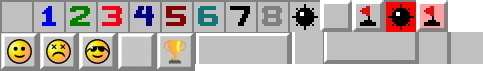
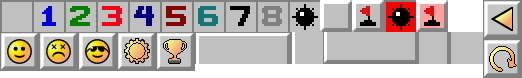
0201.1

diff --git a/main.cpp b/main.cpp
@@ -76,7 +76,7 @@ struct Clock {
         timer = init;
         t.setInterval([&]() {
             timer++;
-        }, 249);
+        }, 238);
     }
     void stop() {
         t.stop();
@@ -189,7 +189,7 @@ const Level defaultLevel[] = { Level(9, 9, 10, 0),
     Level(0, 0, 0, 3) };
 
 struct MainGame {
-    int height, width, bombs, numsCell, cellsRemain, highscore[3] = {999, 999, 999};
+    int height, width, bombs, numsCell, cellsRemain, highscore[3] = {9999, 9999, 9999};
     vi display;
     bool isClicked, isStop;
     short gameStatus;
@@ -261,6 +261,9 @@ struct MainGame {
         display.assign(numsCell, 10);
         cellsRemain = numsCell;
         bombCells.clear();
+    }
+    void resetHighscore() {
+        highscore[0] = highscore[1] = highscore[2] = 9999;
     }
     int displayTime()
     {
@@ -441,7 +444,7 @@ bool checkCustomMode(int height, int width, int bombs, int &errc) {
     if(height > (res.height / 32) - 7) {
         errc |= 2;
     }
-    if(width == 0) {
+    if(width < 9) {
         errc |= 4;
     }
     if(width > (res.width / 32) - 2) {
@@ -484,7 +487,6 @@ int main()
     sprite.setTexture(texture);
     //
     text.setFont(font);
-    text.setFillColor(sf::Color::Red);
     text.setCharacterSize(20);
     text.setStyle(sf::Text::Bold);
     text.setPosition(sf::Vector2f(180, 20));
@@ -492,7 +494,7 @@ int main()
 
     menuText.setFont(font);
     menuText.setFillColor(sf::Color::Black);
-    menuText.setCharacterSize(18);
+    menuText.setCharacterSize(20);
 
     MainGame game;
 
@@ -552,27 +554,27 @@ int main()
             else if (event.type == sf::Event::MouseButtonPressed) {
                 sf::Vector2i pos = sf::Mouse::getPosition(app);
 
-                if (pos.y >= 5 && pos.y <= 44) {
-                    // newgame:   [10, 49] x [5, 44]
-                    // setting:   [54, 93] x [5, 44]
-                    // highscore: [98, 137] x [5, 44]
-                    if (pos.x >= 10 && pos.x <= 49) {
+                if (pos.y >= 5 && pos.y <= 43) {
+                    if (pos.x >= 10 && pos.x <= 48) {
                         appState = 0;
                         game.newgame();
                     }
-                    else if (pos.x >= 54 && pos.x <= 93) {
+                    else if (pos.x >= 54 && pos.x <= 92) {
                         appState = 1;
                     }
-                    else if (pos.x >= 98 && pos.x <= 137) {
+                    else if (pos.x >= 98 && pos.x <= 136) {
                         appState = 2;
                     }
-                    else if(pos.x >= 236 && pos.x <= 275 && appState) {
+                    else if(pos.x >= 236 && pos.x <= 274 && appState) {
                         if(appState == 3) {
                             appState = 1;
                         }
                         else if(appState == 1 || appState == 2) {
                             appState = 0;
                         }
+                    }
+                    else if (pos.x >= 192 && pos.x <= 230 && appState == 2) {
+                        game.resetHighscore();
                     }
                 }
                 else if (appState == 0) {
@@ -592,22 +594,22 @@ int main()
                     }
                 }
                 else if (appState == 1) {
-                    if (pos.y >= 96 && pos.y <= 192) {
-                        if (pos.x >= 32 && pos.x <= 128) {
+                    if (pos.y >= 96 && pos.y <= 191) {
+                        if (pos.x >= 32 && pos.x <= 127) {
                             game.resizeGrid(defaultLevel[0]);
                             appState = 0;
                         }
-                        else if (pos.x >= 160 && pos.x <= 256) {
+                        else if (pos.x >= 160 && pos.x <= 255) {
                             game.resizeGrid(defaultLevel[1]);
                             appState = 0;
                         }
                     }
-                    else if (pos.y >= 224 && pos.y <= 320) {
-                        if (pos.x >= 32 && pos.x <= 128) {
+                    else if (pos.y >= 224 && pos.y <= 319) {
+                        if (pos.x >= 32 && pos.x <= 127) {
                             game.resizeGrid(defaultLevel[2]);
                             appState = 0;
                         }
-                        else if (pos.x >= 160 && pos.x <= 256) {
+                        else if (pos.x >= 160 && pos.x <= 255) {
                             appState = 3;
                         }
                     }
@@ -615,7 +617,7 @@ int main()
                 else if (appState == 2) {
                 }
                 else if(appState == 3) {
-                    if(pos.x >= 64 && pos.x <= 224 && pos.y >= 285 && pos.y <= 349) {
+                    if(pos.x >= 64 && pos.x <= 223 && pos.y >= 285 && pos.y <= 348) {
                         int h = customHeight.getNum();
                         int w = customWidth.getNum();
                         int b = customBombs.getNum();
@@ -651,14 +653,6 @@ int main()
         // start drawing
         app.clear(sf::Color::White);
 
-//        if(appState != 0) {
-//            for (int i = 0; i < 11; i++) {
-//                for (int j = 0; j < 9; j++) {
-//                    drawSprite(sprite, app, 0, 0, 32, 32, j * 32, i * 32);
-//                }
-//            }
-//        }
-
         drawSprite(sprite, app, 39 * (game.gameStatus), 32, 39, 39, 10, 5);
         drawSprite(sprite, app, 39 * 3, 32, 39, 39, 10 + 39 + 5, 5);
         drawSprite(sprite, app, 39 * 4, 32, 39, 39, 10 + 39 + 5 + 39 + 5, 5);
@@ -673,23 +667,25 @@ int main()
             std::string timer = std::to_string(game.displayTime());
             text.setString(timer);
             text.setPosition(sf::Vector2f(32 * game.width - 15 - timer.size() * 10, 20));
+            text.setFillColor(game.gameStatus == 2 ? sf::Color::Blue : sf::Color::Red);
             app.draw(text);
         }
         else if (appState == 1) {
             app.setSize(sf::Vector2u(288, 352));
-            drawSprite(sprite, app, 39 * 3, 32, 39, 39, 236, 5);
+            drawSprite(sprite, app, 483, 0, 39, 39, 236, 5);
             for (int i = 0; i < 4; i++) {
                 for (int k = 0; k < 9; k++) {
                     drawSprite(sprite, app, 39 * 5 + 32 * k, 32, 32, 32, 32 * tx[k] + mx[i], 64 + 32 * ty[k] + my[i]);
-
-                    menuText.setString(levelName[i]);
-                    menuText.setPosition(sf::Vector2f(mx[i] + 15, 64 + my[i] + 15));
-                    app.draw(menuText);
                 }
+                menuText.setString(levelName[i]);
+                menuText.setPosition(sf::Vector2f(mx[i] + 5 + (96 - levelName[i].size() * 16) / 2, 64 + my[i] + 33));
+                app.draw(menuText);
             }
         }
         else if (appState == 2) {
             app.setSize(sf::Vector2u(288, 352));
+            drawSprite(sprite, app, 483, 0, 39, 39, 236, 5);
+            drawSprite(sprite, app, 483, 39, 39, 39, 236 - 5 - 39, 5);
             // add name later
             customText.setPosition(sf::Vector2f(13, 73));
             customText.setString("Easy");
@@ -698,22 +694,22 @@ int main()
             customText.setString(std::to_string(game.highscore[0]));
             app.draw(customText);
 
-            customText.setPosition(sf::Vector2f(13, 153));
+            customText.setPosition(sf::Vector2f(13, 165));
             customText.setString("Medium");
             app.draw(customText);
-            customText.setPosition(sf::Vector2f(203, 153));
+            customText.setPosition(sf::Vector2f(203, 165));
             customText.setString(std::to_string(game.highscore[1]));
             app.draw(customText);
 
-            customText.setPosition(sf::Vector2f(13, 233));
+            customText.setPosition(sf::Vector2f(13, 257));
             customText.setString("Hard");
             app.draw(customText);
-            customText.setPosition(sf::Vector2f(203, 233));
+            customText.setPosition(sf::Vector2f(203, 257));
             customText.setString(std::to_string(game.highscore[2]));
             app.draw(customText);
         }
         else if (appState == 3) {
-            drawSprite(sprite, app, 39 * 3, 32, 39, 39, 236, 5);
+            drawSprite(sprite, app, 483, 0, 39, 39, 236, 5);
             auto res = sf::VideoMode::getDesktopMode();
 
             app.draw(customBombs);
@@ -732,7 +728,7 @@ int main()
             customText.setString("Width");
             app.draw(customText);
             if((errc & 4) || (errc & 8)) {
-                if(errc & 4) errText.setString("Width must > 0");
+                if(errc & 4) errText.setString("Width must > 8");
                 else errText.setString("Width must < " + std::to_string(res.width / 32 - 1));
                 errText.setPosition(sf::Vector2f(13, 130));
                 app.draw(errText);
@@ -758,7 +754,6 @@ int main()
             drawSprite(sprite, app, 39 * 5 + 32 * 5, 32, 32, 32, 64 + 64, 285 + 32);
             drawSprite(sprite, app, 39 * 5 + 32 * 5, 32, 32, 32, 64 + 96, 285 + 32);
             drawSprite(sprite, app, 39 * 5 + 32 * 6, 32, 32, 32, 64 + 128, 285 + 32);
-
             customText.setPosition(sf::Vector2f(72, 300));
             customText.setString("Let's start");
             app.draw(customText);
